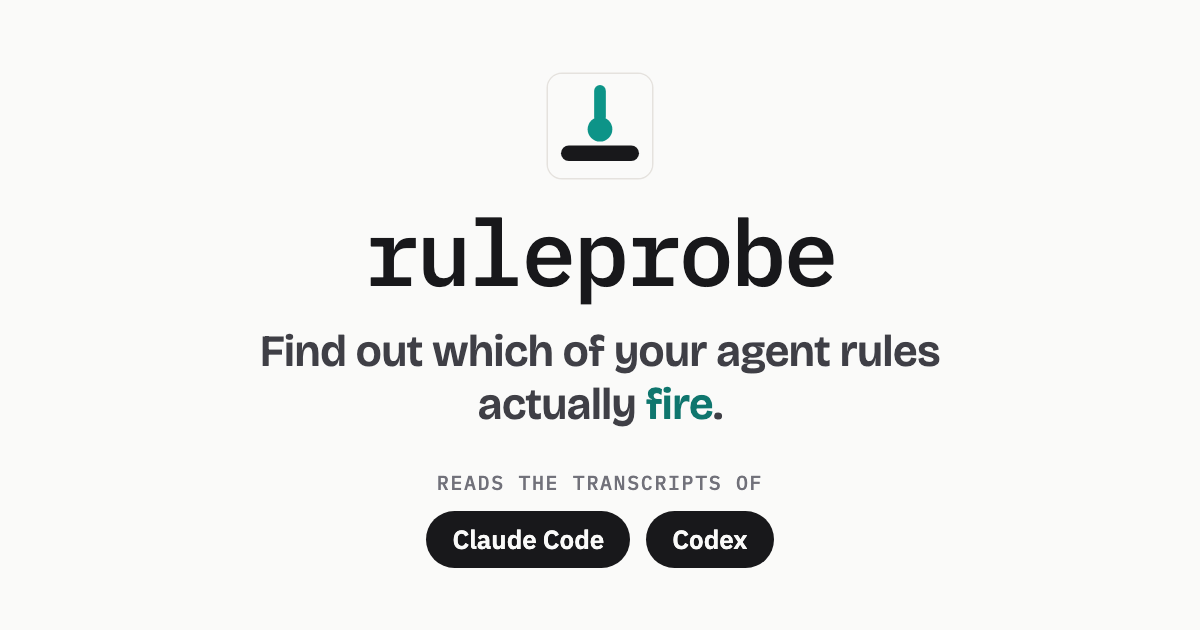
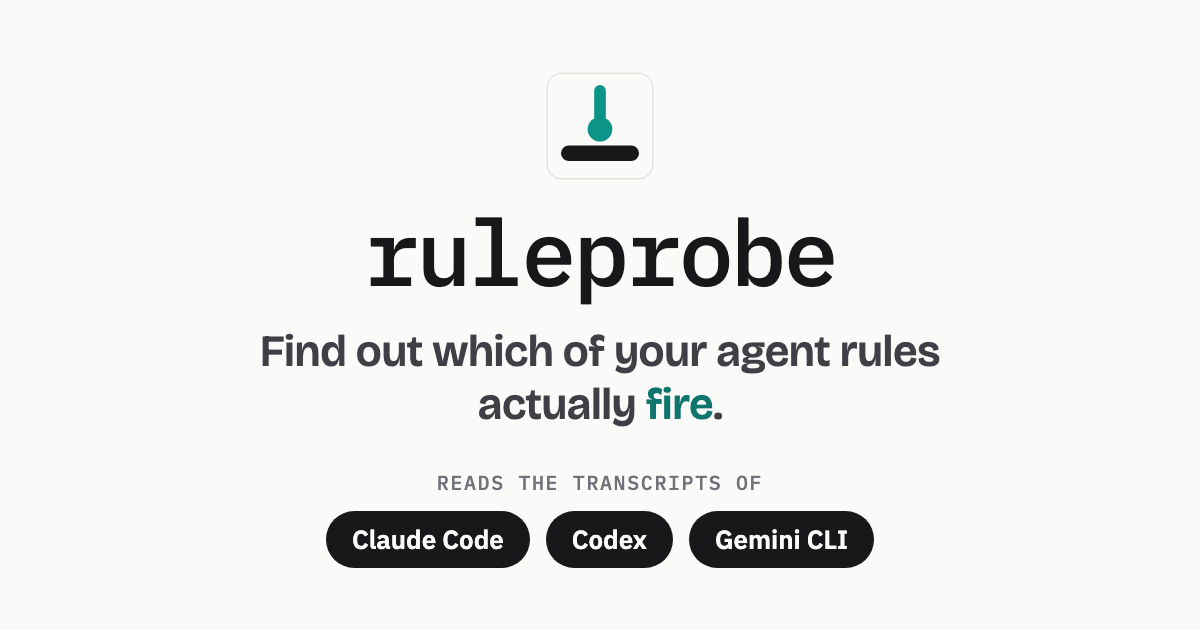
fix(site): pin ruleprobe v0.2.0 and map its new README sections (#4)
- Pin vendor/ruleprobe to the v0.2.0 tag (ca93e24), the gitlink the repin run could not commit.
- Map "Why did that fire?" to the overview, after "What it actually covers", and
  "The public API" and "Versioning" to the detectors page, after "How it is put together",
  so Versioning's "the declared API above" still points up the same page.
- Name Gemini CLI, the reader v0.2.0 adds, on the Open Graph card and in its alt text, and
  re-render public/og.png with brand/render.py.
- brand.test.ts now expects three chips and joins them as an English list in the alt text.

Changed region(s): [[0.2467, 0.7841, 0.74, 0.9048]]

diff --git a/src/lib/ruleprobe/brand.test.ts b/src/lib/ruleprobe/brand.test.ts
@@ -24,6 +24,8 @@ const tagline = text(one(card, /<div class="tag">([\s\S]*?)<\/div>/));
 const cardName = text(one(card, /<h1>([\s\S]*?)<\/h1>/));
 const chips = [...card.matchAll(/<div class="chip">([^<]+)<\/div>/g)].map((m) => m[1]);
 const alt = one(layout, /<meta property="og:image:alt" content="([^"]+)"/);
+const list = (items: string[]) =>
+  items.length < 2 ? items.join('') : `${items.slice(0, -1).join(', ')} and ${items[items.length - 1]}`;
 
 describe('the Open Graph card', () => {
   it('carries the README headline at the pin as its tagline', () => {
@@ -36,8 +38,8 @@ describe('the Open Graph card', () => {
   });
 
   it('names the readers the alt text names', () => {
-    expect(chips).toEqual(['Claude Code', 'Codex']);
-    expect(alt.endsWith(`Reads the transcripts of ${chips.join(' and ')}.`)).toBe(true);
+    expect(chips).toEqual(['Claude Code', 'Codex', 'Gemini CLI']);
+    expect(alt.endsWith(`Reads the transcripts of ${list(chips)}.`)).toBe(true);
   });
 });
 

diff --git a/brand/og-card.html b/brand/og-card.html
@@ -19,5 +19,5 @@
 </style></head><body>
 <div class="mark"><svg xmlns="http://www.w3.org/2000/svg" viewBox="0 0 16 16" aria-hidden="true"><rect width="16" height="16" rx="2" fill="#FAFAF9"/><rect x="2" y="11" width="12" height="2.4" rx="1.2" fill="#18181B"/><path d="M8 2.6 V6.6" fill="none" stroke="#0D9488" stroke-width="1.8" stroke-linecap="round"/><circle cx="8" cy="8.5" r="1.9" fill="#0D9488"/></svg></div><h1>ruleprobe</h1>
 <div class="tag">Find out which of your agent rules<br>actually <em>fire</em>.</div>
-<div class="reads"><span class="label">Reads the transcripts of</span><div class="row"><div class="chip">Claude Code</div><div class="chip">Codex</div></div></div>
+<div class="reads"><span class="label">Reads the transcripts of</span><div class="row"><div class="chip">Claude Code</div><div class="chip">Codex</div><div class="chip">Gemini CLI</div></div></div>
 </body></html>

diff --git a/src/lib/ruleprobe/readme.ts b/src/lib/ruleprobe/readme.ts
@@ -56,8 +56,11 @@ export const SECTION_MAP: Readonly<Record<string, PageKey | 'skip'>> = {
   'Sixty seconds on a rule of your own': 'detectors',
   'Writing a detector': 'detectors',
   'What it actually covers': 'home',
+  'Why did that fire?': 'home',
   'How good are the detectors?': 'validity',
   'How it is put together': 'detectors',
+  'The public API': 'detectors',
+  Versioning: 'detectors',
   Development: 'install',
   'Origins and neighbours': 'home',
   // The maintainer's own process; the footer links it on GitHub.
